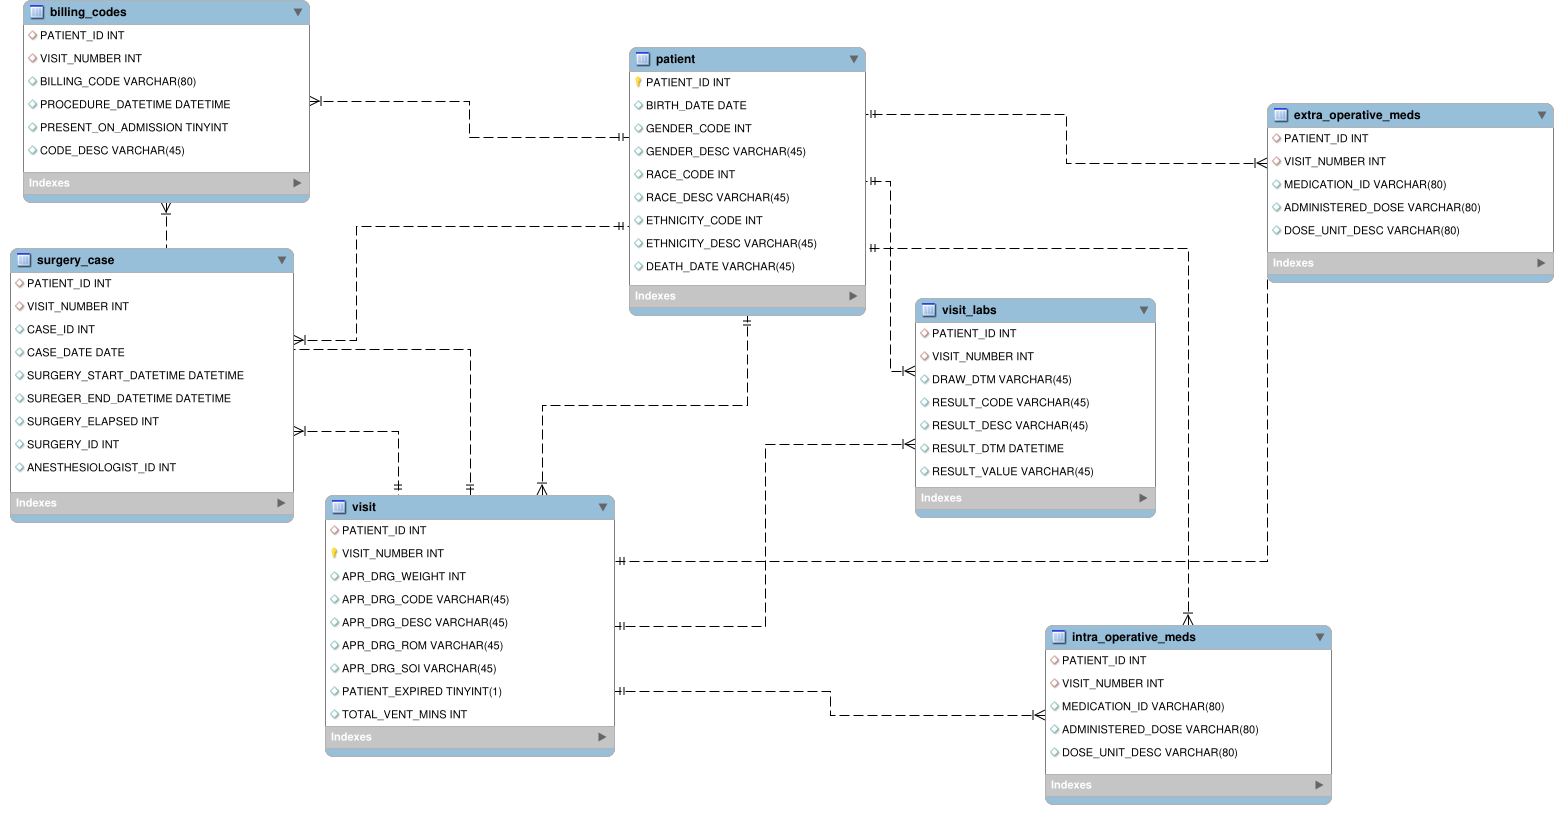
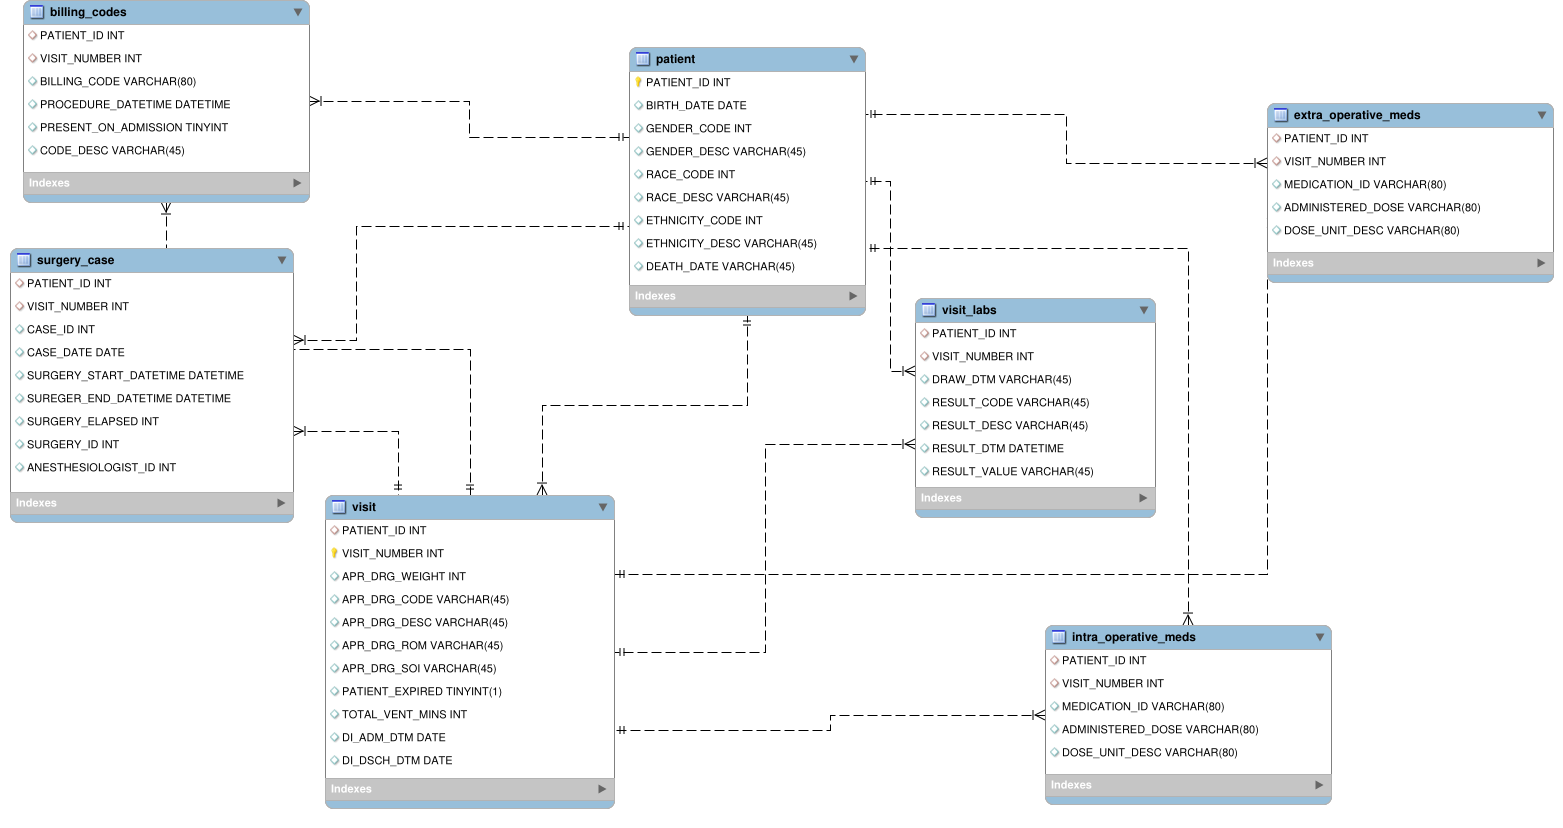
Add admission dtm and discharge dtm to calculate total LOS

diff --git a/backend/api/api/views.py b/backend/api/api/views.py
@@ -32,6 +32,7 @@ from api.utils import (
 
 DE_IDENT_FIELDS = {
     "admin_dose": "ADMIN_DOSE",
+    "admission_dtm": "DI_ADM_DTM",
     "anest_id": "ANESTH_PROV_DWID",
     "apr_drg_weight": "APR_DRG_WEIGHT",
     "apr_drg_code": "APR_DRG_CODE",
@@ -44,6 +45,7 @@ DE_IDENT_FIELDS = {
     "case_id": "DI_CASE_ID",
     "code_desc": "CODE_DESC",
     "death_date": "DI_DEATH_DATE",
+    "discharge_dtm": "DI_DSCH_DTM",
     "dose_unit_desc": "DOSE_UNIT_DESC",
     "draw_dtm": "DI_DRAW_DTM",
     "ethnicity_code": "ETHNICITY_CODE",
@@ -557,7 +559,8 @@ def risk_score(request):
             {FIELDS_IN_USE.get('apr_drg_code')},
             {FIELDS_IN_USE.get('apr_drg_desc')},
             {FIELDS_IN_USE.get('apr_drg_rom')},
-            {FIELDS_IN_USE.get('apr_drg_soi')}
+            {FIELDS_IN_USE.get('apr_drg_soi')},
+            round({FIELDS_IN_USE.get('discharge_dtm')} - {FIELDS_IN_USE.get('admission_dtm')})
         FROM
             {TABLES_IN_USE.get('visit')}
         WHERE 1=1
@@ -579,6 +582,7 @@ def risk_score(request):
                 "apr_drg_desc": row[4],
                 "apr_drg_rom": row[5],
                 "apr_drg_soi": row[6],
+                "total_los": row[7],
             })
 
         return JsonResponse(result_list, safe=False)
